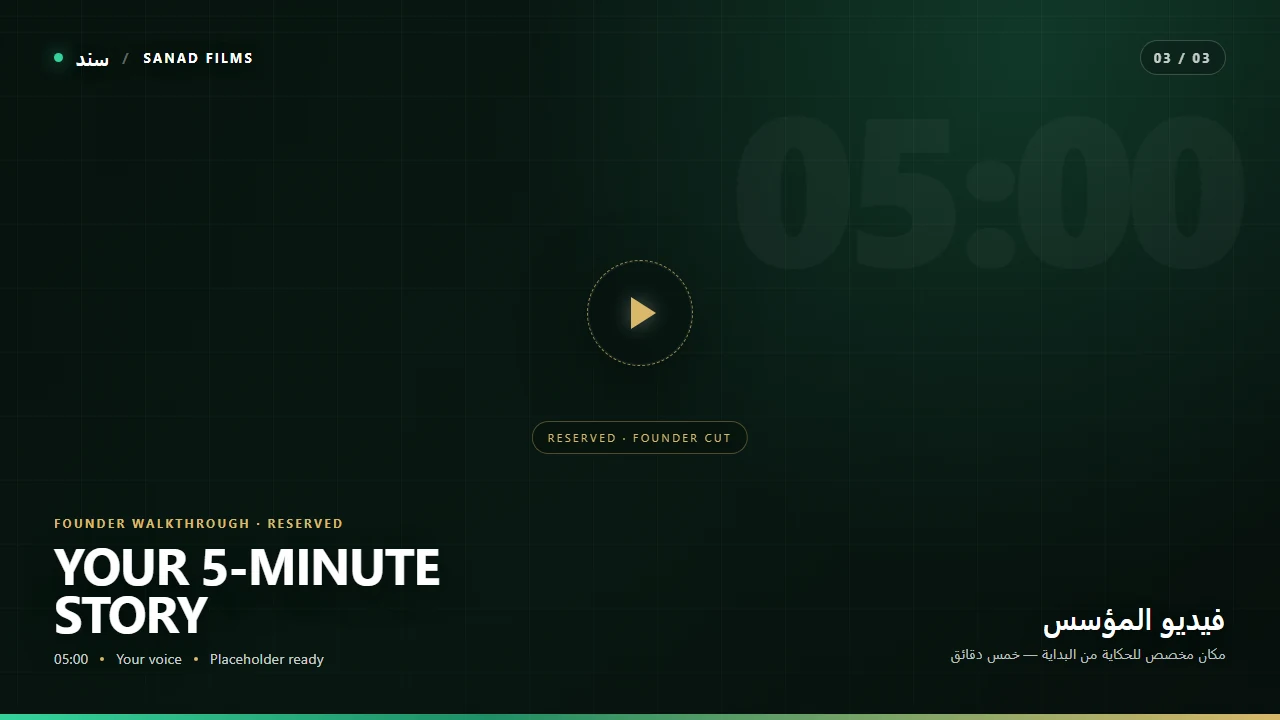
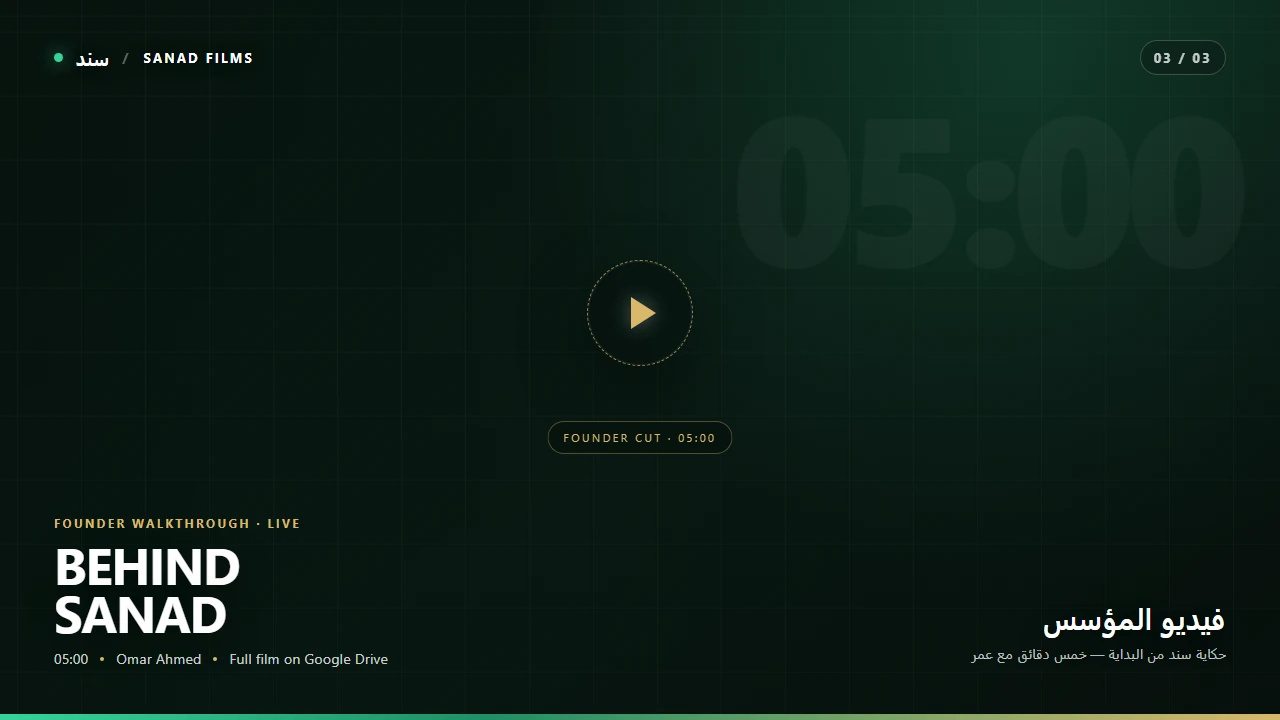
docs(readme): add the founder film and complete the SANAD film row
Link the founder walkthrough to its Google Drive file, refresh the poster for the live cut, and update the footer date.

diff --git a/README.md b/README.md
@@ -134,19 +134,19 @@ No isolation guarantees            PostgreSQL RLS (FORCE ROW LEVEL SECURITY)
 
 #### 🎬 04 · SANAD Films
 
-> Two cinematic walkthroughs explain the vision and the architecture. A third slot is reserved for the founder's five-minute story. Full films open on Google Drive.
+> Three films: the vision, the architecture, and the founder's five-minute story. Full films open on Google Drive.
 
 | [![SANAD AI — male voiceover](docs/assets/readme/video-01-sanad-ai-male.webp)](https://drive.google.com/file/d/1QFr_5h92Lv7EhiWP4AbodGqsZD4CT4th/view?usp=sharing) | [![SANAD architecture — female voiceover](docs/assets/readme/video-02-architecture-female.webp)](https://drive.google.com/file/d/1I-qPFIRHM_etNrpNWXC3VpiMgOdhZOTT/view?usp=sharing) |
 |---|---|
 | **SANAD AI**<br><sub>07:49 · Arabic voiceover · Male</sub><br><sub>The vision: sovereign Arabic AI, evaluation, and evidence-based feedback.</sub> | **The Architecture**<br><sub>07:29 · Arabic voiceover · Female</sub><br><sub>Inside the platform: tenancy, isolation, and the system behind the screens.</sub> |
 
-| <img src="docs/assets/readme/video-03-founder-story.webp" alt="Founder Walkthrough — reserved" width="720"> |
+| <a href="https://drive.google.com/file/d/1j_6TDQVtOVDRyEcU1q0Jbt2ZMC5-zzIW/view?usp=sharing"><img src="docs/assets/readme/video-03-founder-story.webp" alt="Founder Walkthrough — Behind SANAD" width="720"></a> |
 |---|
-| **Founder Walkthrough**<br><sub>05:00 · Reserved</sub><br><sub>A dedicated slot for Omar's five-minute story — the final cut lands here.</sub> |
+| **Founder Walkthrough**<br><sub>05:00 · Founder cut</sub><br><sub>The story behind SANAD — five minutes with Omar.</sub> |
 
 > 🚀 **Live platform:** [sanad-edtech.vercel.app](https://sanad-edtech.vercel.app) · 📖 **Documentation:** [docs/](docs/)
 
-<!-- TODO(founder-video): add the 5-minute founder walkthrough link when the final cut is ready. -->
+<!-- All three film cards now link to their Google Drive files. -->
 
 ---
 
@@ -2943,7 +2943,7 @@ Built with ❤ by **OMAR AHMED** — 16-year-old high-school student & founde
 [![Fork](https://img.shields.io/github/forks/omarahameds2010-lab/sanad-edtech?style=social)](https://github.com/omarahameds2010-lab/sanad-edtech/fork)
 [![LinkedIn](https://img.shields.io/badge/LinkedIn-OMAR_AHMED-0A66C2?style=social&logo=linkedin)](https://www.linkedin.com/in/omar-ahmed-7b97613b1/)
 
-<sub>Last updated: 2026-10-29 · Source of truth: <code>AGENTS.md</code> + <code>docs/STATUS.md</code> + <code>docs/ARCHITECTURE.md</code> + <code>docs/SECURITY.md</code> + <code>docs/VIDEO_PROTECTION.md</code> · README line target: 2000+ (this file) · Product tour: 14 production screens + 3 film posters in <code>docs/assets/readme/</code></sub>
+<sub>Last updated: 2026-10-30 · Source of truth: <code>AGENTS.md</code> + <code>docs/STATUS.md</code> + <code>docs/ARCHITECTURE.md</code> + <code>docs/SECURITY.md</code> + <code>docs/VIDEO_PROTECTION.md</code> · README line target: 2000+ (this file) · Product tour: 14 production screens + 3 film posters in <code>docs/assets/readme/</code></sub>
 
 </div>
 
